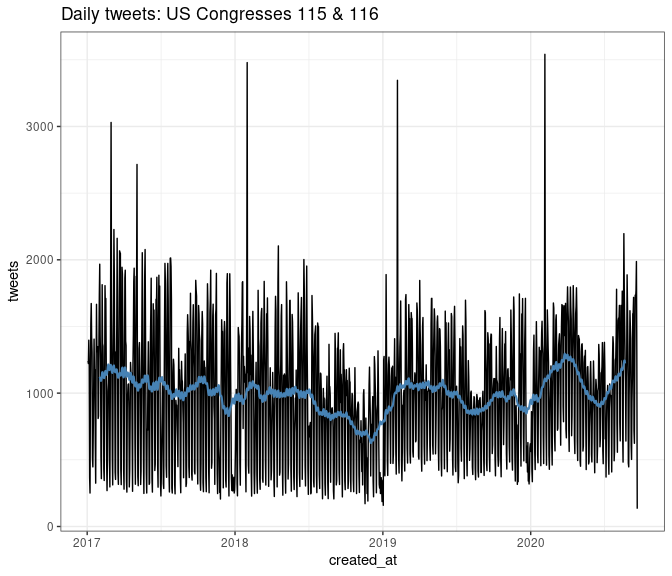
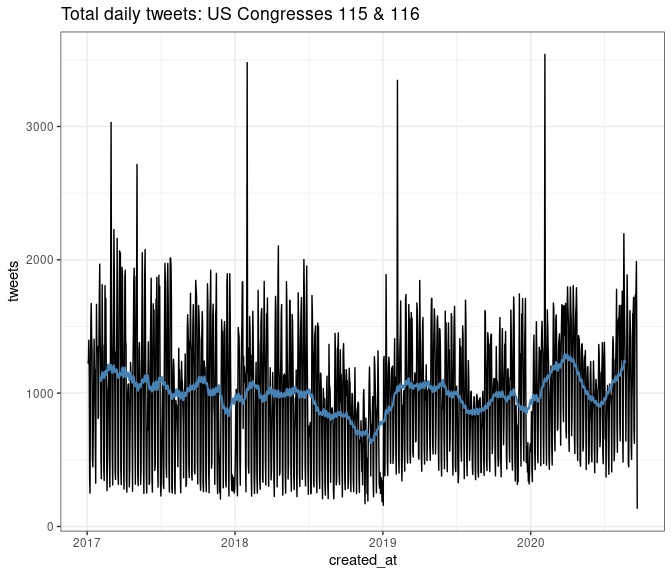
re

Changed region(s): [[0.0938, 0.0, 0.625, 0.0625]]

diff --git a/corpus-composition.md b/corpus-composition.md
@@ -1,51 +1,27 @@
 Twitter Corpus
 ==============
 
-2020-09-21
+2020-09-22
 
 Corpus composition
 ------------------
 
 Collecting all tweets generated by all lawmakers from congresses 115 &
 116 (3 January 2017 to present day) in one fell swoop is not possible
-via the Twitter API. Instead, the best way to build such a corpus would
-have been to scrape tweets daily or weekly for congress members starting
-at 3 January 2017.
+via the Twitter API. Ideally, we would have been piecing together a
+daily corpus via some type of automated process from the get-go.
 
-While this ship has sailed for me (at least for the 115th and most of
-the 116th), other/smarter folks have been doing this – eg – [the George
-Washington University (GWU)
-Library](https://tweetsets.library.gwu.edu/). GWU makes available Tweet
-IDs for this set of tweets, and [DocNow’s
-Hydrator](https://github.com/DocNow/hydrator), eg, can be used to obtain
-actual tweet data based on the Tweet ID.
-
-I then keep the (116th portion of the) corpus up-to-date using the R
-package `rtweet`, collecting status updates for Twitter handles used to
-build the GWU tweet collection. Via an automated daily script that can
-be used in subsequent congresses. From this perspective, then, we only
-use the GWU tweet sets to get caught up on the congressional tweet
-collection.
+We got a late start, but now we use the R package `rtweet` to [do just
+that](). Older tweets, however, (here, those generated before June 2020)
+have been obtained from [the George Washington University (GWU)
+Library](https://tweetsets.library.gwu.edu/), which makes available
+Tweet IDs for tweets generated by US lawmakers, disaggregated by by
+congress & chamber. Tweets were then “hydrated” (!) using a nifty
+application developed and made publicly availabe from
+[DocNow](https://github.com/DocNow/hydrator).
 
 Descriptives
 ------------
-
-### Thoughts
-
-Some important trends. Some (potential) explanations:
-
-1.  Average length of tweets (in words) increased substantially from
-    2017 to 2018; presumably a result of Twitter’s increased character
-    limit from 140 to 280 at the end of 2017.
-
-2.  Total number of Twitter lawmaker accounts roughly doubled from the
-    115th congress to the 116th. Without any real effects on the number
-    of total tweets from 115 to 116. The folks at GWU included
-    “auxiliary” accounts for members in the 116th Twitter scrape, eg,
-    both “office” & “campaign” accounts.
-
-It is not clear if this is per some methodological change on the part of
-GWU, or a result of more lawmakers in 116 using more than one account.
 
 ``` r
 korpus <- load_lawmaker_tweets()
@@ -58,7 +34,7 @@ xsum2 <- xsum1 %>%
   group_by(congress, yr) %>%
   summarise(tweets = n(),
             tokens = sum(tokens),
-            ers = length(unique(toupper(screen_name))),
+            handles = length(unique(toupper(screen_name))),
             ave = round(tokens/tweets, 1)) %>%
   mutate(tweets = formatC(tweets, big.mark = ','),
          tokens = formatC(tokens, big.mark = ','))
@@ -66,15 +42,29 @@ xsum2 <- xsum1 %>%
 xsum2 %>% knitr::kable()
 ```
 
-|  congress| yr   | tweets  | tokens     |  ers|   ave|
-|---------:|:-----|:--------|:-----------|----:|-----:|
-|       115| 2017 | 382,281 | 8,101,282  |  513|  21.2|
-|       115| 2018 | 326,864 | 10,606,772 |  510|  32.5|
-|       115| 2019 | 507     | 13,610     |  267|  26.8|
-|       116| 2019 | 354,711 | 12,367,502 |  894|  34.9|
-|       116| 2020 | 291,763 | 10,333,505 |  903|  35.4|
+|  congress| yr   | tweets  | tokens     |  handles|   ave|
+|---------:|:-----|:--------|:-----------|--------:|-----:|
+|       115| 2017 | 382,281 | 8,101,282  |      513|  21.2|
+|       115| 2018 | 326,864 | 10,606,772 |      510|  32.5|
+|       115| 2019 | 507     | 13,610     |      267|  26.8|
+|       116| 2019 | 354,711 | 12,367,502 |      894|  34.9|
+|       116| 2020 | 291,763 | 10,333,505 |      903|  35.4|
 
-### Historical counts
+------------------------------------------------------------------------
+
+1.  Average length of tweets (in words) increased substantially from
+    2017 to 2018; presumably a result of Twitter’s increased character
+    limit from 140 to 280 at the end of 2017.
+
+2.  Total number of Twitter lawmaker accounts roughly doubled from the
+    115th congress to the 116th.
+
+The latter, presumably a function of the inclusion of both office &
+campaign Twitter accounts. It is not clear if this is per some
+methodological change on the part of GWU, or a result of more lawmakers
+in 116 using more than one account.
+
+------------------------------------------------------------------------
 
 ``` r
 xsum1 %>%
@@ -96,7 +86,7 @@ xsum1 %>%
             #linetype = 2,
             size = 0.75) +
   theme_bw() +
-  ggtitle('Daily tweets: US Congresses 115 & 116')
+  ggtitle('Total daily tweets: US Congresses 115 & 116')
 ```
 
 ![](corpus-composition_files/figure-markdown_github/unnamed-chunk-3-1.png)

diff --git a/twitter-handles.md b/twitter-handles.md
@@ -96,6 +96,8 @@ gwu_accounts <- lapply(1:length(gfiles), function(x) {
 Full Twitter list
 -----------------
 
+A small sample of the new Twitter handle data set is presented below.
+
 ``` r
 full <- gwu_accounts %>% 
   left_join(tweets_of_congress) %>%
